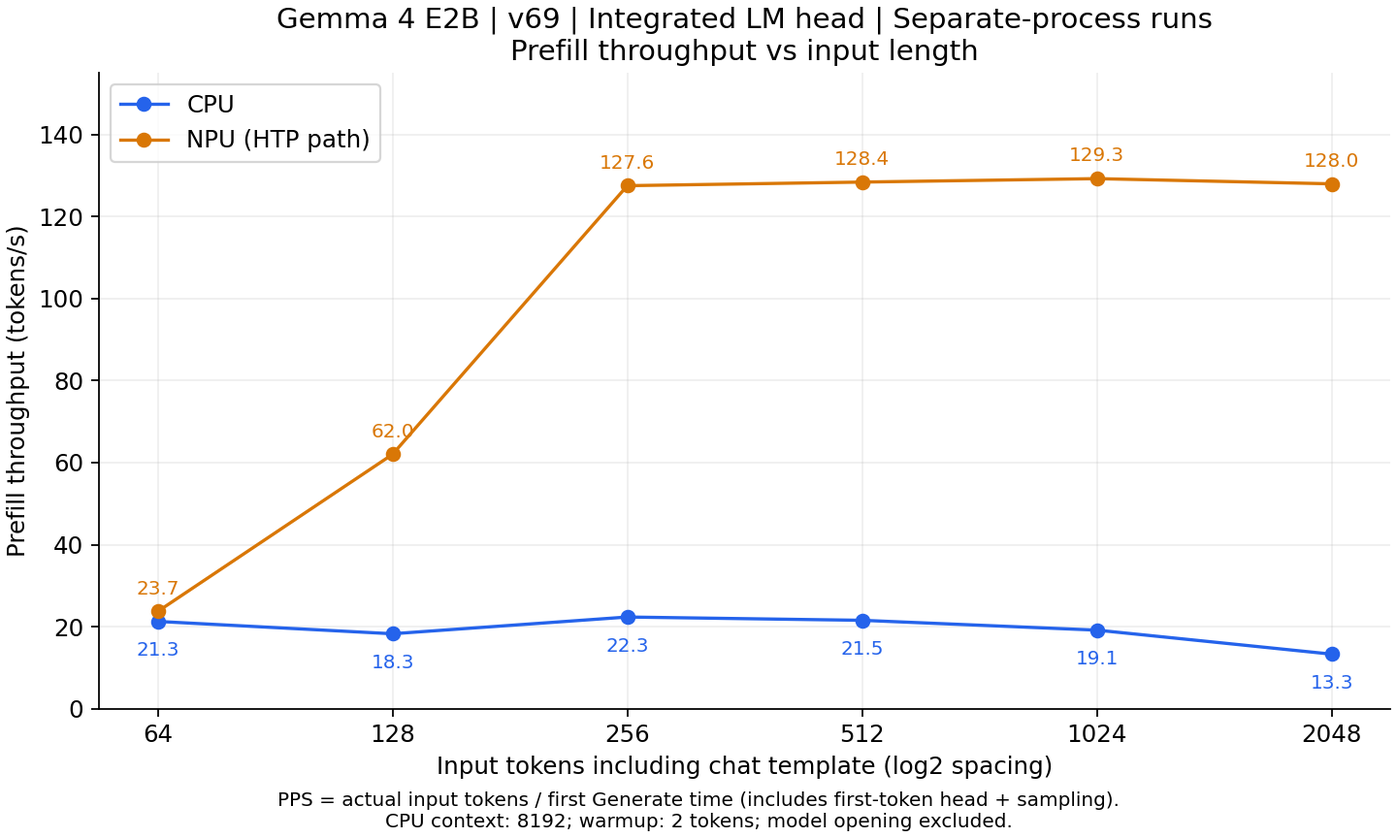
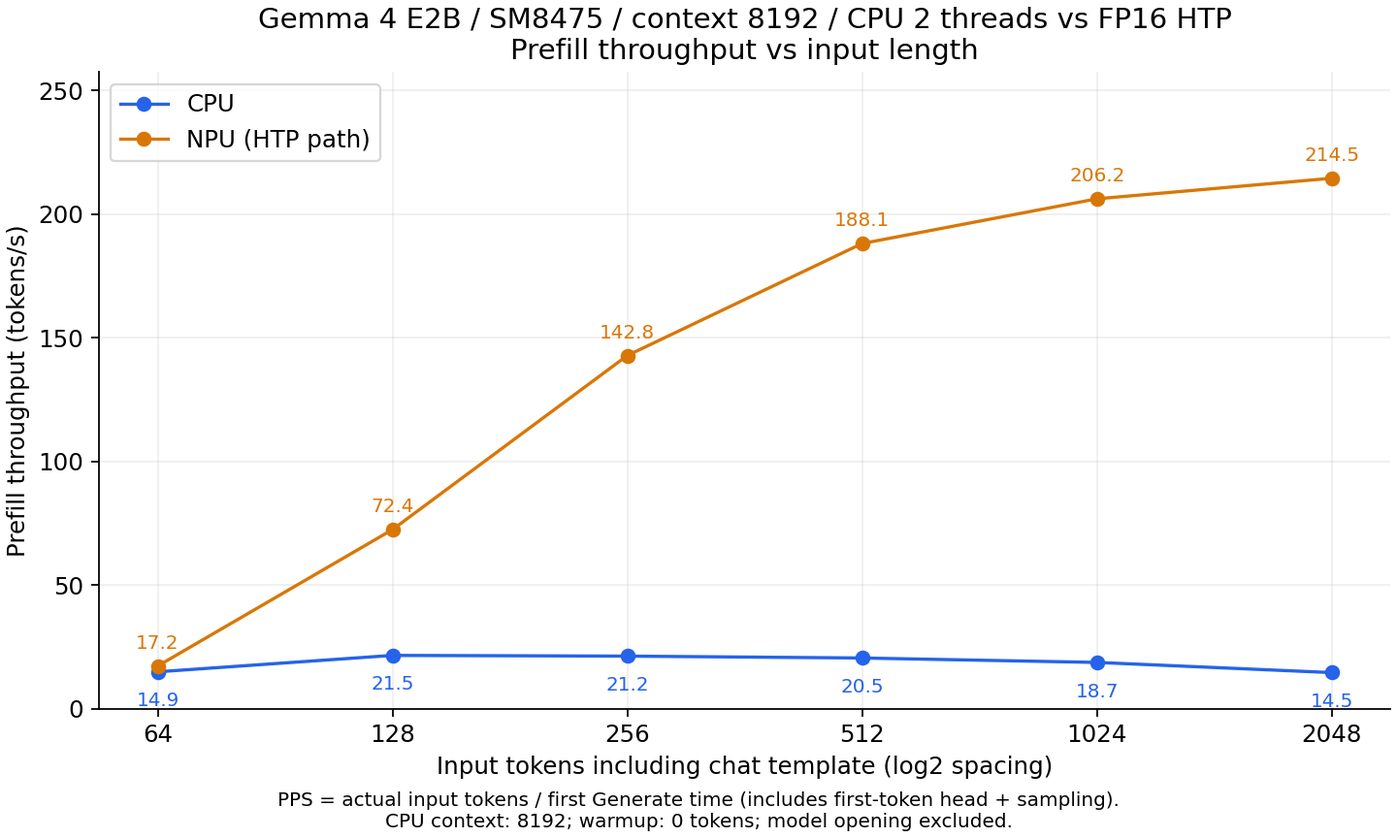
Update QNN benchmark with two-device E2B release results
Replace the benchmark section with the 2026-09-13 E2B release measurements
for SM8475 (Hexagon v69 / FP16) and SM7635 (Hexagon v73 / Int16): decode
and prefill throughput, VLM and audio latency, and the 8K context run,
with the per-device TPS/PPS plots.

Also add the Gemma 4 E2B QNN model download table, a note that other SoCs
can be compiled on request, and LiteRT-LM NPU to the comparison table
(only Gemma3-1B is published for Qualcomm).

diff --git a/llm/qnn.html b/llm/qnn.html
@@ -105,6 +105,7 @@ j=d.createElement(s),dl=l!='dataLayer'?'&l='+l:'';j.async=true;j.src=
       <tr><td><a class="method-link" href="https://github.com/ggml-org/llama.cpp">llama.cpp</a></td><td>×</td><td>○</td><td>制約なし（CPU 実行）</td><td>CPU 実行です。実験的な Hexagon バックエンドがありますが、NPU 側のライブラリ（Skel）が署名されていないため一般の端末では実行できず、HMX（行列演算ユニット）も使用できないため速度も出ません。画像エンコーダは CPU で実行されます。</td></tr>
       <tr><td>QNN（<a class="method-link" href="https://docs.qualcomm.com/nav/home/general_introduction.html?product=1601111740009302">Qualcomm AI Engine Direct</a>）</td><td>○</td><td>×</td><td>Hexagon v65 以降（Snapdragon 845 以降）</td><td>低レベルの推論 API で、LLM のランタイムは提供されません。</td></tr>
       <tr><td>QNN GenAI（Qualcomm Genie / <a class="method-link" href="https://github.com/qualcomm/GenieX">GenieX</a>）</td><td>○</td><td>×</td><td>Hexagon v79 以降（Snapdragon 8 Elite 以降）</td><td>公式の対応 Android SoC は Snapdragon 8 Elite 系のみで、Hexagon v79 以降が必須です。Gemma 4 の NPU 用（QAIRT）モデルは提供されていません。</td></tr>
+      <tr><td><a class="method-link" href="https://developers.google.com/edge/litert/next/litert_lm_npu">LiteRT-LM NPU</a></td><td>○</td><td>×</td><td>Snapdragon 8 Gen 2 / 8 Gen 3 / 8 Elite（SM8550 / SM8650 / SM8750）</td><td>Qualcomm 向けに公開されている NPU モデルは Gemma3-1B（4bit、コンテキスト長 1,280）のみです。Gemma 4 の NPU モデルは Google Tensor と Intel 向けにのみ提供されています。テキスト専用で、画像・音声入力には対応していません。</td></tr>
       <tr><td><strong><a class="method-link" href="https://ailia.ai/llm/">ailia LLM</a></strong></td><td>○</td><td>○</td><td>Hexagon v69 以降（Snapdragon 8 Gen 1 以降）</td><td>Snapdragon 8+ Gen 1 などの古い SoC でも NPU を使用でき、Gemma 4 E2B / E4B をテキスト・VLM とも NPU で実行できます。</td></tr>
     </table>
     </div>
@@ -151,6 +152,22 @@ j=d.createElement(s),dl=l!='dataLayer'?'&l='+l:'';j.async=true;j.src=
       <tr><td><code>&lt;soc&gt;-mmproj.qnn</code>（例: <code>sm8475-mmproj.qnn</code>）</td><td>VLM 用の画像エンコーダ（mmproj）</td></tr>
     </table>
     </div>
+    <h3>モデルのダウンロード</h3>
+    <p>変換済みの Gemma 4 E2B の QNN Model は下記からダウンロードできます。VLM / 音声入力を使用する場合は、テキストモデルと mmproj の両方をダウンロードしてください。</p>
+    <div class="table-wrap">
+    <table class="version-table">
+      <tr><th>SoC</th><th>端末の例</th><th>ファイル</th><th>内容</th><th>サイズ</th></tr>
+      <tr><td rowspan="2">sm8475<br>（Hexagon v69 / FP16）</td><td rowspan="2">Snapdragon 8+ Gen 1</td><td><a href="https://storage.googleapis.com/ailia-models/gemma/qnn/v1.5.0/gemma4-e2b-sm8475.qnn">gemma4-e2b-sm8475.qnn</a></td><td>テキストモデル（Prefill + Decode）</td><td class="num">3.62 GB</td></tr>
+      <tr><td><a href="https://storage.googleapis.com/ailia-models/gemma/qnn/v1.5.0/gemma4-e2b-sm8475-mmproj.qnn">gemma4-e2b-sm8475-mmproj.qnn</a></td><td>画像 / 音声エンコーダ（mmproj）</td><td class="num">1.11 GB</td></tr>
+      <tr><td rowspan="2">sm7635<br>（Hexagon v73 / Int16）</td><td rowspan="2">Snapdragon 7s Gen 3</td><td><a href="https://storage.googleapis.com/ailia-models/gemma/qnn/v1.5.0/gemma4-e2b-sm7635.qnn">gemma4-e2b-sm7635.qnn</a></td><td>テキストモデル（Prefill + Decode）</td><td class="num">3.60 GB</td></tr>
+      <tr><td><a href="https://storage.googleapis.com/ailia-models/gemma/qnn/v1.5.0/gemma4-e2b-sm7635-mmproj.qnn">gemma4-e2b-sm7635-mmproj.qnn</a></td><td>画像 / 音声エンコーダ（mmproj）</td><td class="num">0.73 GB</td></tr>
+    </table>
+    </div>
+    <p>いずれも ailia LLM 1.5.0（QAIRT 2.47.0.260601）向けで、コンテキスト長は 8192、AR-256 / AR-1 構成です。</p>
+    <div class="note">
+      <strong>その他の SoC について:</strong> 現在モデルファイルを公開しているのは sm8475 と sm7635 の 2 機種のみですが、その他の SoC 向けの変換も承っております。対象の SoC（<code>ailiaLLMGetQNNModelName</code> API で取得できる名称）をお知らせいただければ、ailia LLM Compiler で該当 SoC 向けの QNN Model をコンパイルいたしますので、<a href="https://ailia.ai/">ailia</a> までお問い合わせください。
+    </div>
+
     <div class="note">
       <strong>注意:</strong> QNN Model は Hexagon のバージョンだけでなく、QNN SDK のバージョンと SoC のモデル ID にも依存します。異なる SoC 向けのファイルを流用しないでください。実行中の端末に対応する SoC 名は <code>ailiaLLMGetQNNModelName</code> API で取得できます（例: <code>"sm8475"</code>）。
     </div>
@@ -218,30 +235,95 @@ llm.openMultimodalProjectorFile(mmprojQnnPath) // VLM のみ</code></pre>
     </div>
 
     <h2>ベンチマーク</h2>
-    <p>Gemma 4 E2B を Snapdragon 8+ Gen 1（SM8475 / Hexagon v69、ASUS AI2202）、QAIRT 2.47.0.260601 で測定した結果です。CPU は同じ端末上の llama.cpp 互換の CPU 実装（GGUF）、NPU は同じモデルから生成した QNN Model を使用し、同一プロンプト・greedy サンプリングで比較しています。</p>
+    <p>Gemma 4 E2B を 2 機種で測定した結果です。Snapdragon 8+ Gen 1（SM8475 / Hexagon v69、ASUS AI2202）は FP16 モデル、Snapdragon 7s Gen 3（SM7635 / Hexagon v73）は Int16 モデルを使用しています。いずれも QAIRT 2.47.0.260601、コンテキスト長 8192、Q4_0 入力、AR-256 / AR-1 構成です。CPU は同じ端末上の llama.cpp 互換の CPU 実装（GGUF、2 スレッド）を使用しています。</p>
+    <div class="note">
+      <strong>注意:</strong> 2 機種は SoC も量子化方式も異なるため、両者の差を量子化方式だけの差とみなすことはできません。各測定は 1 試行の値であり、複数回の平均ではありません。
+    </div>
+
+    <h3>Decode スループット</h3>
+    <p>1,000 トークン生成時のスループットです。</p>
     <div class="table-wrap">
     <table class="version-table">
-      <tr><th>項目</th><th>CPU</th><th>NPU（QNN）</th><th>高速化率</th></tr>
-      <tr><td>VLM 画像エンコーダ（768x768、1 枚）</td><td class="num">99.19 秒</td><td class="num">2.67 秒</td><td class="num">37.2 倍</td></tr>
-      <tr><td>VLM マルチモーダルプロンプト設定</td><td class="num">98.5 秒</td><td class="num">2.59 秒</td><td class="num">38.0 倍</td></tr>
-      <tr><td>VLM 画像入力から最初のトークンまで（TTFT）</td><td class="num">105.7 秒</td><td class="num">10.2 秒</td><td class="num">10.3 倍</td></tr>
-      <tr><td>テキスト Prefill（1000 トークン入力）</td><td class="num">-</td><td class="num">121.3 tokens/s</td><td class="num">-</td></tr>
-      <tr><td>テキスト Decode（ウォーム）</td><td class="num">11.4 tokens/s</td><td class="num">7.9 tokens/s</td><td class="num">0.7 倍</td></tr>
+      <tr><th>端末</th><th>モデル</th><th>CPU</th><th>NPU（QNN）</th><th>NPU / CPU</th></tr>
+      <tr><td>SM8475（Hexagon v69）</td><td>FP16</td><td class="num">8.340 tokens/s</td><td class="num">7.536 tokens/s</td><td class="num">0.90 倍</td></tr>
+      <tr><td>SM7635（Hexagon v73）</td><td>Int16</td><td class="num">7.851 tokens/s</td><td class="num">6.473 tokens/s</td><td class="num">0.82 倍</td></tr>
+    </table>
+    </div>
+    <p>この条件では、いずれの端末でも Decode は CPU の方が高速です。Decode は 1 トークンずつ処理するため重みの読み出しが支配的で、NPU の並列演算性能を活かしにくいことによります。</p>
+
+    <figure class="bench-figure">
+      <img src="benchmark/tps_sm8475.png" alt="SM8475 の Decode のトークンごとのスループット（1000 トークン生成、CPU vs NPU）" loading="lazy">
+      <figcaption>SM8475（FP16）の Decode のトークンごとのスループット（1000 トークン生成、CPU vs NPU）</figcaption>
+    </figure>
+    <figure class="bench-figure">
+      <img src="benchmark/tps_sm7635.png" alt="SM7635 の Decode のトークンごとのスループット（1000 トークン生成、CPU vs NPU）" loading="lazy">
+      <figcaption>SM7635（Int16）の Decode のトークンごとのスループット（1000 トークン生成、CPU vs NPU）</figcaption>
+    </figure>
+
+    <h3>Prefill スループット</h3>
+    <p>入力トークン数を 64〜2,048 まで変えたときのスループット（tokens/s）です。各条件で 100 トークンを生成しています。</p>
+    <div class="table-wrap">
+    <table class="version-table">
+      <tr><th>入力トークン数</th><th>SM8475 CPU</th><th>SM8475 NPU（FP16）</th><th>SM7635 CPU</th><th>SM7635 NPU（Int16）</th></tr>
+      <tr><td class="num">64</td><td class="num">14.870</td><td class="num">17.210</td><td class="num">12.571</td><td class="num">9.775</td></tr>
+      <tr><td class="num">128</td><td class="num">21.505</td><td class="num">72.384</td><td class="num">16.822</td><td class="num">23.033</td></tr>
+      <tr><td class="num">256</td><td class="num">21.214</td><td class="num">142.785</td><td class="num">16.544</td><td class="num">45.248</td></tr>
+      <tr><td class="num">512</td><td class="num">20.454</td><td class="num">188.090</td><td class="num">16.013</td><td class="num">50.435</td></tr>
+      <tr><td class="num">1024</td><td class="num">18.662</td><td class="num">206.170</td><td class="num">15.208</td><td class="num">52.660</td></tr>
+      <tr><td class="num">2048</td><td class="num">14.549</td><td class="num">214.491</td><td class="num">14.295</td><td class="num">53.870</td></tr>
     </table>
     </div>
     <ul>
-      <li>VLM の TTFT は、画像のデコード・前処理・画像エンコーダ・テキスト Prefill を含む時間です。VLM の行は画像エンコーダを CPU / NPU で切り替えた比較で、テキスト側はいずれも NPU で実行しています。</li>
-      <li>Prefill は Prefill 用グラフに LM head を統合した構成で、1000 トークン入力時の <code>プロンプトのトークン数 / 最初の生成呼び出し時間</code> です。</li>
-      <li>Decode は Hexagon v69 では CPU の方が高速です。Hexagon v73 以降の新しい SoC では別途測定が必要です。</li>
+      <li>Prefill のスループットは <code>実入力トークン数 / 最初の生成呼び出し時間</code> です。ウォームアップは行っておらず、初回の遅延を含みます。</li>
+      <li>短い入力から長い入力へ順に測定しているため、64 トークンの結果は後続の条件と初期状態が異なります。</li>
+      <li>2,048 トークン入力では、SM8475 で CPU の約 14.7 倍、SM7635 で約 3.8 倍のスループットです。</li>
     </ul>
+
     <figure class="bench-figure">
-      <img src="benchmark/pps_sm8475.png" alt="Prefill スループット（入力トークン数 64〜2048、CPU vs NPU）" loading="lazy">
-      <figcaption>Prefill スループット（入力トークン数 64〜2048、CPU vs NPU）</figcaption>
+      <img src="benchmark/pps_sm8475.png" alt="SM8475 の Prefill スループット（入力トークン数 64〜2048、CPU vs NPU）" loading="lazy">
+      <figcaption>SM8475（FP16）の Prefill スループット（入力トークン数 64〜2048、CPU vs NPU）</figcaption>
     </figure>
     <figure class="bench-figure">
-      <img src="benchmark/tps_sm8475.png" alt="Decode のトークンごとのスループット（1000 トークン生成、CPU vs NPU）" loading="lazy">
-      <figcaption>Decode のトークンごとのスループット（1000 トークン生成、CPU vs NPU）</figcaption>
+      <img src="benchmark/pps_sm7635.png" alt="SM7635 の Prefill スループット（入力トークン数 64〜2048、CPU vs NPU）" loading="lazy">
+      <figcaption>SM7635（Int16）の Prefill スループット（入力トークン数 64〜2048、CPU vs NPU）</figcaption>
     </figure>
+
+    <h3>VLM（画像入力）の応答時間</h3>
+    <p>同一の 768x768 画像 10 枚（画像 256 + テキスト 62 = 318 入力トークン）の中央値です。TTFT は画像エンコーダを含むプロンプト設定と最初の生成呼び出しの合計で、モデルのオープンは含みません。CPU 側は Decoder が 2 スレッド、画像エンコーダは既定のコア数で動作しています。</p>
+    <div class="table-wrap">
+    <table class="version-table">
+      <tr><th>端末・経路</th><th>TTFT（中央値）</th><th>Decode（中央値）</th></tr>
+      <tr><td>SM8475 CPU</td><td class="num">137.37 秒</td><td class="num">6.60 tokens/s</td></tr>
+      <tr><td>SM8475 NPU（FP16）</td><td class="num">9.51 秒</td><td class="num">6.91 tokens/s</td></tr>
+      <tr><td>SM7635 CPU</td><td class="num">105.18 秒</td><td class="num">7.93 tokens/s</td></tr>
+      <tr><td>SM7635 NPU（Int16）</td><td class="num">25.82 秒</td><td class="num">6.20 tokens/s</td></tr>
+    </table>
+    </div>
+    <p>画像入力の TTFT は、SM8475 で約 14.4 倍、SM7635 で約 4.1 倍短縮されます。各画像 1 試行の測定であり、CPU と NPU は別試行のため厳密な同時条件の A/B ではありません。</p>
+
+    <h3>音声入力の応答時間</h3>
+    <p>FLEURS の 10 録音（5 言語 各 2 件）の中央値です。TTFT は音声エンコーダを含むプロンプト設定と最初の生成呼び出しの合計で、モデルのオープンは含みません。</p>
+    <div class="table-wrap">
+    <table class="version-table">
+      <tr><th>端末・経路</th><th>TTFT（中央値）</th><th>Decode（中央値）</th><th>出力トークン数</th></tr>
+      <tr><td>SM8475 NPU（FP16）</td><td class="num">8.37 秒</td><td class="num">6.86 tokens/s</td><td class="num">21〜60</td></tr>
+      <tr><td>SM7635 NPU（Int16）</td><td class="num">13.98 秒</td><td class="num">5.89 tokens/s</td><td class="num">21〜61</td></tr>
+      <tr><td>SM7635 CPU</td><td class="num">45.65 秒</td><td class="num">7.92 tokens/s</td><td class="num">21〜91</td></tr>
+    </table>
+    </div>
+    <p>生成される文と出力長は経路ごとに異なるため、TTFT 以外の値は同一出力に対する比較ではありません。</p>
+
+    <h3>8K コンテキストでの実行</h3>
+    <p>7,936 トークン入力 + 256 トークン出力を各端末で 2 回実行した結果です。全 4 試行で指定トークン数を完走しています。</p>
+    <div class="table-wrap">
+    <table class="version-table">
+      <tr><th>端末</th><th>試行</th><th>Prefill</th><th>Decode</th></tr>
+      <tr><td>SM8475（FP16）</td><td class="num">1</td><td class="num">218.956 tokens/s</td><td class="num">7.485 tokens/s</td></tr>
+      <tr><td>SM8475（FP16）</td><td class="num">2</td><td class="num">200.439 tokens/s</td><td class="num">7.509 tokens/s</td></tr>
+      <tr><td>SM7635（Int16）</td><td class="num">1</td><td class="num">54.931 tokens/s</td><td class="num">6.444 tokens/s</td></tr>
+      <tr><td>SM7635（Int16）</td><td class="num">2</td><td class="num">55.082 tokens/s</td><td class="num">6.495 tokens/s</td></tr>
+    </table>
+    </div>
 
     <h2>制約</h2>
     <ul>

diff --git a/en/llm/qnn.html b/en/llm/qnn.html
@@ -105,6 +105,7 @@ j=d.createElement(s),dl=l!='dataLayer'?'&l='+l:'';j.async=true;j.src=
       <tr><td><a class="method-link" href="https://github.com/ggml-org/llama.cpp">llama.cpp</a></td><td>No</td><td>Yes</td><td>No restriction (CPU execution)</td><td>Runs on the CPU. An experimental Hexagon backend exists, but its NPU-side libraries (Skel) are unsigned, so it cannot run on regular devices, and it cannot use the HMX (matrix unit), so it is not fast either. The image encoder runs on the CPU.</td></tr>
       <tr><td>QNN (<a class="method-link" href="https://docs.qualcomm.com/nav/home/general_introduction.html?product=1601111740009302">Qualcomm AI Engine Direct</a>)</td><td>Yes</td><td>No</td><td>Hexagon v65 or later (Snapdragon 845 or later)</td><td>Low-level inference API; no LLM runtime is provided.</td></tr>
       <tr><td>QNN GenAI (Qualcomm Genie / <a class="method-link" href="https://github.com/qualcomm/GenieX">GenieX</a>)</td><td>Yes</td><td>No</td><td>Hexagon v79 or later (Snapdragon 8 Elite or later)</td><td>The officially supported Android SoCs are limited to the Snapdragon 8 Elite family, and Hexagon v79 or later is required. No NPU (QAIRT) model is provided for Gemma 4.</td></tr>
+      <tr><td><a class="method-link" href="https://developers.google.com/edge/litert/next/litert_lm_npu">LiteRT-LM NPU</a></td><td>Yes</td><td>No</td><td>Snapdragon 8 Gen 2 / 8 Gen 3 / 8 Elite (SM8550 / SM8650 / SM8750)</td><td>The only NPU model published for Qualcomm is Gemma3-1B (4-bit, 1,280 context). NPU models for Gemma 4 are provided only for Google Tensor and Intel. It is text only and does not support image or audio input.</td></tr>
       <tr><td><strong><a class="method-link" href="https://ailia.ai/en/llm/">ailia LLM</a></strong></td><td>Yes</td><td>Yes</td><td>Hexagon v69 or later (Snapdragon 8 Gen 1 or later)</td><td>Uses the NPU even on older SoCs such as Snapdragon 8+ Gen 1, and runs Gemma 4 E2B / E4B on the NPU for both text and VLM.</td></tr>
     </table>
     </div>
@@ -152,6 +153,22 @@ j=d.createElement(s),dl=l!='dataLayer'?'&l='+l:'';j.async=true;j.src=
       <tr><td><code>&lt;soc&gt;-mmproj.qnn</code> (e.g. <code>sm8475-mmproj.qnn</code>)</td><td>Image encoder (mmproj) for VLM</td></tr>
     </table>
     </div>
+    <h3>Model downloads</h3>
+    <p>Pre-converted QNN Models for Gemma 4 E2B can be downloaded below. To use VLM or audio input, download both the text model and the mmproj file.</p>
+    <div class="table-wrap">
+    <table class="version-table">
+      <tr><th>SoC</th><th>Example device</th><th>File</th><th>Contents</th><th>Size</th></tr>
+      <tr><td rowspan="2">sm8475<br>(Hexagon v69 / FP16)</td><td rowspan="2">Snapdragon 8+ Gen 1</td><td><a href="https://storage.googleapis.com/ailia-models/gemma/qnn/v1.5.0/gemma4-e2b-sm8475.qnn">gemma4-e2b-sm8475.qnn</a></td><td>Text model (prefill + decode)</td><td class="num">3.62 GB</td></tr>
+      <tr><td><a href="https://storage.googleapis.com/ailia-models/gemma/qnn/v1.5.0/gemma4-e2b-sm8475-mmproj.qnn">gemma4-e2b-sm8475-mmproj.qnn</a></td><td>Image / audio encoder (mmproj)</td><td class="num">1.11 GB</td></tr>
+      <tr><td rowspan="2">sm7635<br>(Hexagon v73 / Int16)</td><td rowspan="2">Snapdragon 7s Gen 3</td><td><a href="https://storage.googleapis.com/ailia-models/gemma/qnn/v1.5.0/gemma4-e2b-sm7635.qnn">gemma4-e2b-sm7635.qnn</a></td><td>Text model (prefill + decode)</td><td class="num">3.60 GB</td></tr>
+      <tr><td><a href="https://storage.googleapis.com/ailia-models/gemma/qnn/v1.5.0/gemma4-e2b-sm7635-mmproj.qnn">gemma4-e2b-sm7635-mmproj.qnn</a></td><td>Image / audio encoder (mmproj)</td><td class="num">0.73 GB</td></tr>
+    </table>
+    </div>
+    <p>All of these are for ailia LLM 1.5.0 (QAIRT 2.47.0.260601), with a context length of 8192 and the AR-256 / AR-1 configuration.</p>
+    <div class="note">
+      <strong>Other SoCs:</strong> Model files are currently published only for the two SoCs above (sm8475 and sm7635), but we can also convert models for other SoCs. Let us know the target SoC (the name returned by the <code>ailiaLLMGetQNNModelName</code> API) and we will compile a QNN Model for it with ailia LLM Compiler. Please <a href="https://ailia.ai/en/">contact ailia</a> for details.
+    </div>
+
     <div class="note">
       <strong>Note:</strong> A QNN Model depends not only on the Hexagon version but also on the QNN SDK version and the SoC model ID. Do not reuse a file built for a different SoC. The SoC name of the running device can be obtained with the <code>ailiaLLMGetQNNModelName</code> API (e.g. <code>"sm8475"</code>).
     </div>
@@ -219,30 +236,95 @@ llm.openMultimodalProjectorFile(mmprojQnnPath) // VLM only</code></pre>
     </div>
 
     <h2>Benchmark</h2>
-    <p>The following results were measured with Gemma 4 E2B on Snapdragon 8+ Gen 1 (SM8475 / Hexagon v69, ASUS AI2202) with QAIRT 2.47.0.260601. CPU uses the llama.cpp compatible CPU implementation (GGUF) on the same device, and NPU uses the QNN Model generated from the same model, compared with the same prompt and greedy sampling.</p>
+    <p>The following results were measured with Gemma 4 E2B on two devices. Snapdragon 8+ Gen 1 (SM8475 / Hexagon v69, ASUS AI2202) uses the FP16 model, and Snapdragon 7s Gen 3 (SM7635 / Hexagon v73) uses the Int16 model. Both were measured with QAIRT 2.47.0.260601, a context length of 8192, Q4_0 input and the AR-256 / AR-1 configuration. CPU uses the llama.cpp compatible CPU implementation (GGUF, 2 threads) on the same device.</p>
+    <div class="note">
+      <strong>Note:</strong> The two devices differ in both SoC and quantization, so the gap between them cannot be attributed to quantization alone. Each number is a single run, not an average of repeated runs.
+    </div>
+
+    <h3>Decode throughput</h3>
+    <p>Throughput while generating 1,000 tokens.</p>
     <div class="table-wrap">
     <table class="version-table">
-      <tr><th>Item</th><th>CPU</th><th>NPU (QNN)</th><th>Speedup</th></tr>
-      <tr><td>VLM image encoder (768x768, 1 image)</td><td class="num">99.19 s</td><td class="num">2.67 s</td><td class="num">37.2x</td></tr>
-      <tr><td>VLM multimodal prompt setup</td><td class="num">98.5 s</td><td class="num">2.59 s</td><td class="num">38.0x</td></tr>
-      <tr><td>VLM image-to-first-token (TTFT)</td><td class="num">105.7 s</td><td class="num">10.2 s</td><td class="num">10.3x</td></tr>
-      <tr><td>Text prefill (1000 input tokens)</td><td class="num">-</td><td class="num">121.3 tokens/s</td><td class="num">-</td></tr>
-      <tr><td>Text decode (warm)</td><td class="num">11.4 tokens/s</td><td class="num">7.9 tokens/s</td><td class="num">0.7x</td></tr>
+      <tr><th>Device</th><th>Model</th><th>CPU</th><th>NPU (QNN)</th><th>NPU / CPU</th></tr>
+      <tr><td>SM8475 (Hexagon v69)</td><td>FP16</td><td class="num">8.340 tokens/s</td><td class="num">7.536 tokens/s</td><td class="num">0.90x</td></tr>
+      <tr><td>SM7635 (Hexagon v73)</td><td>Int16</td><td class="num">7.851 tokens/s</td><td class="num">6.473 tokens/s</td><td class="num">0.82x</td></tr>
+    </table>
+    </div>
+    <p>Under these conditions decode is faster on the CPU on both devices. Decode processes one token at a time, so it is dominated by weight loading and does not benefit much from the parallel compute of the NPU.</p>
+
+    <figure class="bench-figure">
+      <img src="../../llm/benchmark/tps_sm8475.png" alt="SM8475 per-token decode throughput over 1000 generated tokens (CPU vs. NPU)" loading="lazy">
+      <figcaption>SM8475 (FP16) per-token decode throughput over 1000 generated tokens (CPU vs. NPU)</figcaption>
+    </figure>
+    <figure class="bench-figure">
+      <img src="../../llm/benchmark/tps_sm7635.png" alt="SM7635 per-token decode throughput over 1000 generated tokens (CPU vs. NPU)" loading="lazy">
+      <figcaption>SM7635 (Int16) per-token decode throughput over 1000 generated tokens (CPU vs. NPU)</figcaption>
+    </figure>
+
+    <h3>Prefill throughput</h3>
+    <p>Throughput (tokens/s) for input lengths from 64 to 2,048 tokens. Each condition generates 100 tokens.</p>
+    <div class="table-wrap">
+    <table class="version-table">
+      <tr><th>Input tokens</th><th>SM8475 CPU</th><th>SM8475 NPU (FP16)</th><th>SM7635 CPU</th><th>SM7635 NPU (Int16)</th></tr>
+      <tr><td class="num">64</td><td class="num">14.870</td><td class="num">17.210</td><td class="num">12.571</td><td class="num">9.775</td></tr>
+      <tr><td class="num">128</td><td class="num">21.505</td><td class="num">72.384</td><td class="num">16.822</td><td class="num">23.033</td></tr>
+      <tr><td class="num">256</td><td class="num">21.214</td><td class="num">142.785</td><td class="num">16.544</td><td class="num">45.248</td></tr>
+      <tr><td class="num">512</td><td class="num">20.454</td><td class="num">188.090</td><td class="num">16.013</td><td class="num">50.435</td></tr>
+      <tr><td class="num">1024</td><td class="num">18.662</td><td class="num">206.170</td><td class="num">15.208</td><td class="num">52.660</td></tr>
+      <tr><td class="num">2048</td><td class="num">14.549</td><td class="num">214.491</td><td class="num">14.295</td><td class="num">53.870</td></tr>
     </table>
     </div>
     <ul>
-      <li>VLM TTFT includes image decoding, preprocessing, the image encoder and text prefill. The VLM rows compare the image encoder running on CPU vs. NPU, with the text model running on the NPU in both cases.</li>
-      <li>Prefill uses the configuration with the LM head fused into the prefill graph, and is computed as <code>prompt tokens / time of the first generate call</code> with a 1000-token input.</li>
-      <li>On Hexagon v69, decode is faster on the CPU. Newer SoCs with Hexagon v73 or later need to be measured separately.</li>
+      <li>Prefill throughput is <code>actual input tokens / time of the first generate call</code>. No warmup is performed, so the first-call latency is included.</li>
+      <li>Conditions are measured from short to long inputs, so the 64-token result starts from a different state than the later ones.</li>
+      <li>With a 2,048-token input, the NPU reaches about 14.7x the CPU throughput on SM8475 and about 3.8x on SM7635.</li>
     </ul>
+
     <figure class="bench-figure">
-      <img src="../../llm/benchmark/pps_sm8475.png" alt="Prefill throughput vs. input length (64 to 2048 tokens, CPU vs. NPU)" loading="lazy">
-      <figcaption>Prefill throughput vs. input length (64 to 2048 tokens, CPU vs. NPU)</figcaption>
+      <img src="../../llm/benchmark/pps_sm8475.png" alt="SM8475 prefill throughput vs. input length (64 to 2048 tokens, CPU vs. NPU)" loading="lazy">
+      <figcaption>SM8475 (FP16) prefill throughput vs. input length (64 to 2048 tokens, CPU vs. NPU)</figcaption>
     </figure>
     <figure class="bench-figure">
-      <img src="../../llm/benchmark/tps_sm8475.png" alt="Per-token decode throughput over 1000 generated tokens (CPU vs. NPU)" loading="lazy">
-      <figcaption>Per-token decode throughput over 1000 generated tokens (CPU vs. NPU)</figcaption>
+      <img src="../../llm/benchmark/pps_sm7635.png" alt="SM7635 prefill throughput vs. input length (64 to 2048 tokens, CPU vs. NPU)" loading="lazy">
+      <figcaption>SM7635 (Int16) prefill throughput vs. input length (64 to 2048 tokens, CPU vs. NPU)</figcaption>
     </figure>
+
+    <h3>VLM (image input) latency</h3>
+    <p>Medians over the same 10 images at 768x768 (256 image + 62 text = 318 input tokens). TTFT is the prompt setup including the image encoder plus the first generate call, excluding model opening. On the CPU path the decoder uses 2 threads and the image encoder uses the default number of cores.</p>
+    <div class="table-wrap">
+    <table class="version-table">
+      <tr><th>Device / path</th><th>TTFT (median)</th><th>Decode (median)</th></tr>
+      <tr><td>SM8475 CPU</td><td class="num">137.37 s</td><td class="num">6.60 tokens/s</td></tr>
+      <tr><td>SM8475 NPU (FP16)</td><td class="num">9.51 s</td><td class="num">6.91 tokens/s</td></tr>
+      <tr><td>SM7635 CPU</td><td class="num">105.18 s</td><td class="num">7.93 tokens/s</td></tr>
+      <tr><td>SM7635 NPU (Int16)</td><td class="num">25.82 s</td><td class="num">6.20 tokens/s</td></tr>
+    </table>
+    </div>
+    <p>Image TTFT is about 14.4x shorter on SM8475 and about 4.1x shorter on SM7635. Each image was measured once, and the CPU and NPU numbers come from separate runs rather than a strict side-by-side A/B.</p>
+
+    <h3>Audio input latency</h3>
+    <p>Medians over 10 FLEURS recordings (2 each in 5 languages). TTFT is the prompt setup including the audio encoder plus the first generate call, excluding model opening.</p>
+    <div class="table-wrap">
+    <table class="version-table">
+      <tr><th>Device / path</th><th>TTFT (median)</th><th>Decode (median)</th><th>Output tokens</th></tr>
+      <tr><td>SM8475 NPU (FP16)</td><td class="num">8.37 s</td><td class="num">6.86 tokens/s</td><td class="num">21-60</td></tr>
+      <tr><td>SM7635 NPU (Int16)</td><td class="num">13.98 s</td><td class="num">5.89 tokens/s</td><td class="num">21-61</td></tr>
+      <tr><td>SM7635 CPU</td><td class="num">45.65 s</td><td class="num">7.92 tokens/s</td><td class="num">21-91</td></tr>
+    </table>
+    </div>
+    <p>The generated text and output length differ between paths, so values other than TTFT are not a comparison over identical outputs.</p>
+
+    <h3>8K context run</h3>
+    <p>7,936 input tokens + 256 output tokens, run twice on each device. All four runs completed the specified token counts.</p>
+    <div class="table-wrap">
+    <table class="version-table">
+      <tr><th>Device</th><th>Run</th><th>Prefill</th><th>Decode</th></tr>
+      <tr><td>SM8475 (FP16)</td><td class="num">1</td><td class="num">218.956 tokens/s</td><td class="num">7.485 tokens/s</td></tr>
+      <tr><td>SM8475 (FP16)</td><td class="num">2</td><td class="num">200.439 tokens/s</td><td class="num">7.509 tokens/s</td></tr>
+      <tr><td>SM7635 (Int16)</td><td class="num">1</td><td class="num">54.931 tokens/s</td><td class="num">6.444 tokens/s</td></tr>
+      <tr><td>SM7635 (Int16)</td><td class="num">2</td><td class="num">55.082 tokens/s</td><td class="num">6.495 tokens/s</td></tr>
+    </table>
+    </div>
 
     <h2>Limitations</h2>
     <ul>
